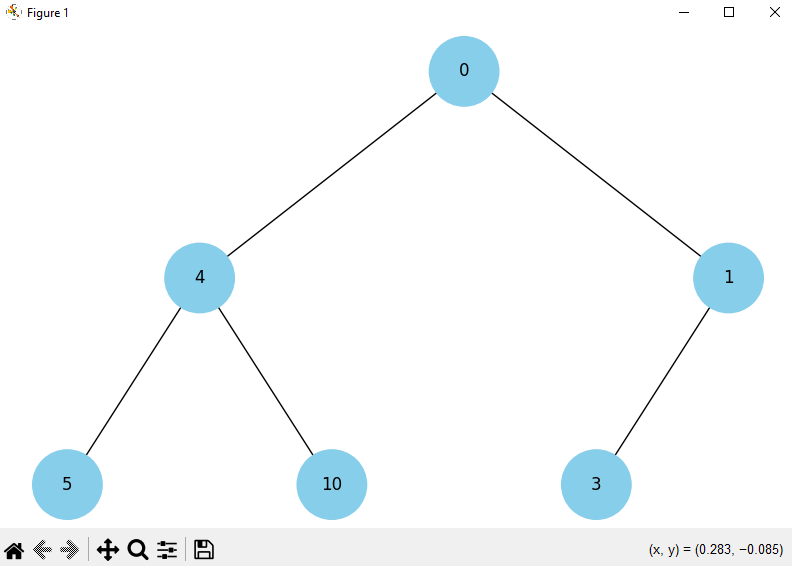
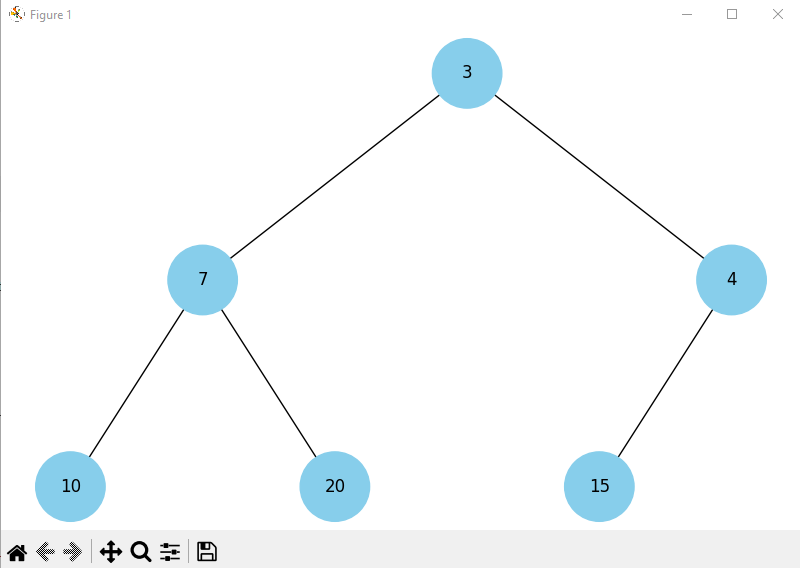
update task#4

diff --git a/task#4.py b/task#4.py
@@ -1,15 +1,16 @@
 import uuid
 import networkx as nx
 import matplotlib.pyplot as plt
+import heapq
 
 class Node:
     def __init__(self, key, color="skyblue"):
         self.left = None
         self.right = None
         self.val = key
-        self.color = color
+        self.color = color 
         self.id = str(uuid.uuid4()) 
-        
+
 def add_edges(graph, node, pos, x=0, y=0, layer=1):
     if node is not None:
         graph.add_node(node.id, color=node.color, label=node.val) 
@@ -25,25 +26,46 @@ def add_edges(graph, node, pos, x=0, y=0, layer=1):
             r = add_edges(graph, node.right, pos, x=r, y=y - 1, layer=layer + 1)
     return graph
 
-def draw_heap(heap_root):
-    heap = nx.DiGraph()
-    pos = {heap_root.id: (0, 0)}
-    heap = add_edges(heap, heap_root, pos)
-
-    colors = [node[1]['color'] for node in heap.nodes(data=True)]
-    labels = {node[0]: node[1]['label'] for node in heap.nodes(data=True)}  
-
+def draw_tree(tree_root):
+    tree = nx.DiGraph()
+    pos = {tree_root.id: (0, 0)}
+    tree = add_edges(tree, tree_root, pos)
+    colors = [node[1]['color'] for node in tree.nodes(data=True)]
+    labels = {node[0]: node[1]['label'] for node in tree.nodes(data=True)} 
     plt.figure(figsize=(8, 5))
-    nx.draw(heap, pos=pos, labels=labels, arrows=False, node_size=2500, node_color=colors)
-    plt.title("Бінарна купа")
+    nx.draw(tree, pos=pos, labels=labels, arrows=False, node_size=2500, node_color=colors)
     plt.show()
 
-# Приклад використання
-root = Node(0)
-root.left = Node(4)
-root.left.left = Node(5)
-root.left.right = Node(10)
-root.right = Node(1)
-root.right.left = Node(3)
+def list_to_heap(lst):
+    heapq.heapify(lst)
+    return lst
 
-draw_heap(root)
+def heap_to_tree(heap):
+    if not heap:
+        return None
+
+    nodes = [Node(val) for val in heap]
+
+    for i in range(len(nodes)):
+        left_index = 2 * i + 1
+        right_index = 2 * i + 2
+
+        if left_index < len(nodes):
+            nodes[i].left = nodes[left_index]
+        if right_index < len(nodes):
+            nodes[i].right = nodes[right_index]
+
+    return nodes[0]
+
+# Приклад списку
+lst = [7, 10, 4, 3, 20, 15]
+
+# Перетворення списку в купу
+heap = list_to_heap(lst)
+
+# Перетворення купи в дерево
+root = heap_to_tree(heap)
+
+# Відображення дерева
+draw_tree(root)
+
